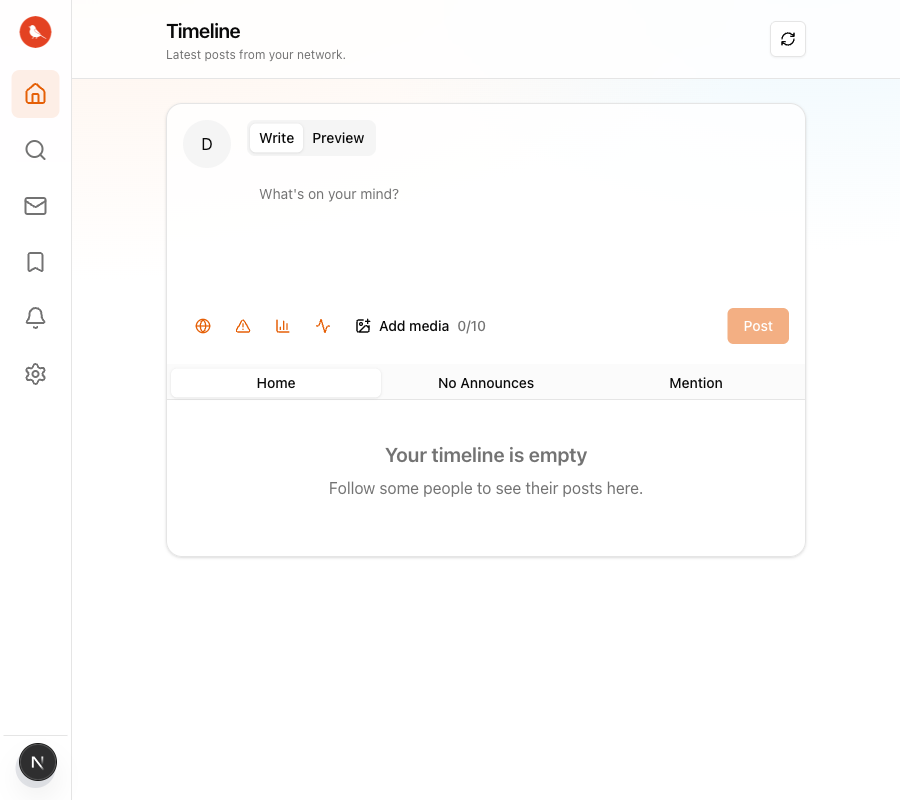
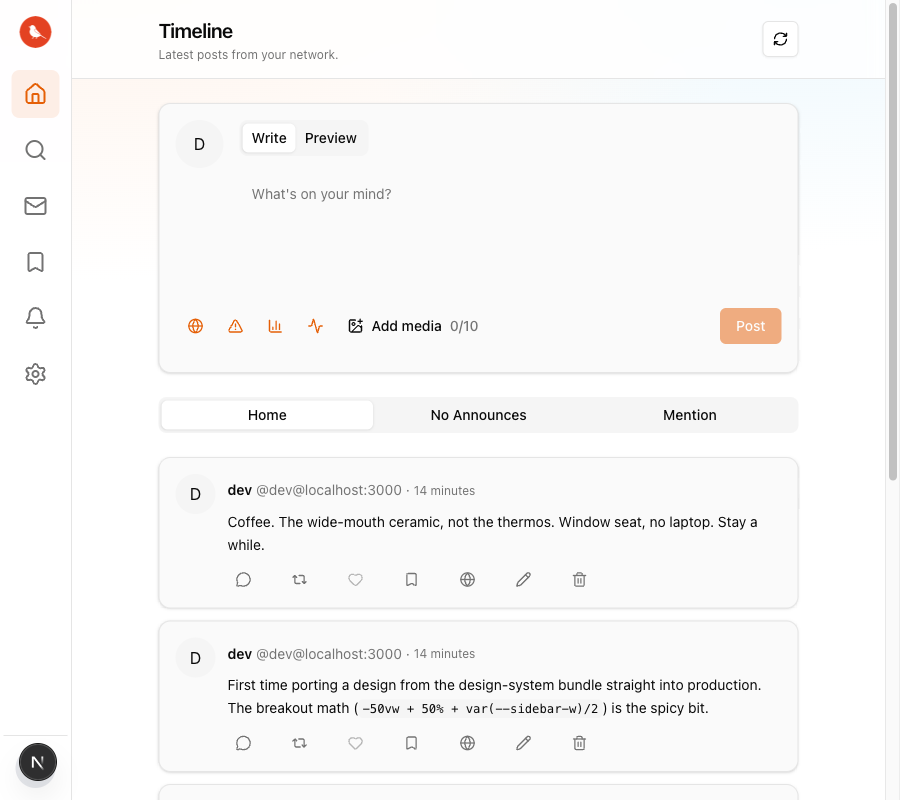
feat: per-post cards and standalone composer/tabs to match design
The design-system bundle wants each post to render as its own card
(`bg-card border rounded-xl p-4 shadow-sm`) with the composer and
tabs as standalone elements above. Today MainPageTimeline wraps the
composer, tabs, and posts in a single big section card with internal
dividers, which doesn't match.

- Posts: per-post `<article>` becomes a card; outer section uses
  `flex-col gap-3` instead of a borderless grid. This is shared with
  every Posts call site (bookmarks, profile, search, hashtag, etc.)
  so all timeline-like views get the same chrome.
- MainPageTimeline: drop the wrapping section. Composer is now its
  own card, tabs render as a flat strip, empty/loading states get
  their own card frame to match.

diff --git a/app/(timeline)/MainPageTimeline.tsx b/app/(timeline)/MainPageTimeline.tsx
@@ -241,92 +241,83 @@ export const MainPageTimeline: FC<MainPageTimelineProps> = ({
         }
       />
 
-      <section className="overflow-hidden rounded-2xl border bg-background/80 shadow-sm">
-        <div className="p-4 pb-2">
-          <PostBox
-            host={host}
-            profile={profile}
-            replyStatus={statusActionState.replyStatus}
-            editStatus={statusActionState.editStatus}
-            isMediaUploadEnabled={isMediaUploadEnabled}
-            onDiscardReply={() => dispatchStatusAction(clearAction())}
-            onDiscardEdit={() => dispatchStatusAction(clearAction())}
-            onPostCreated={(status: Status) => {
-              setCurrentStatuses((previousValue) => [status, ...previousValue])
-              dispatchStatusAction(clearAction())
-            }}
-            onPostUpdated={(updatedStatus: Status) => {
-              setCurrentStatuses((previousStatuses) =>
-                previousStatuses.map((status) =>
-                  status.id === updatedStatus.id ? updatedStatus : status
-                )
+      <section className="rounded-xl border bg-card p-4 shadow-sm">
+        <PostBox
+          host={host}
+          profile={profile}
+          replyStatus={statusActionState.replyStatus}
+          editStatus={statusActionState.editStatus}
+          isMediaUploadEnabled={isMediaUploadEnabled}
+          onDiscardReply={() => dispatchStatusAction(clearAction())}
+          onDiscardEdit={() => dispatchStatusAction(clearAction())}
+          onPostCreated={(status: Status) => {
+            setCurrentStatuses((previousValue) => [status, ...previousValue])
+            dispatchStatusAction(clearAction())
+          }}
+          onPostUpdated={(updatedStatus: Status) => {
+            setCurrentStatuses((previousStatuses) =>
+              previousStatuses.map((status) =>
+                status.id === updatedStatus.id ? updatedStatus : status
               )
-              dispatchStatusAction(clearAction())
-            }}
-          />
-        </div>
-
-        <Tabs
-          value={currentTab.timeline}
-          onValueChange={onTabChange}
-          className="w-full"
-        >
-          <TabsList className="w-full grid grid-cols-3 rounded-none border-b bg-muted/40 p-1">
-            {TIMELINES_TABS.map((tab) => (
-              <TabsTrigger
-                key={tab.timeline}
-                value={tab.timeline}
-                className="rounded-md data-[state=active]:bg-background"
-              >
-                {tab.name}
-              </TabsTrigger>
-            ))}
-          </TabsList>
-
-          <TabsContent value={currentTab.timeline} className="mt-0">
-            {currentStatuses.length > 0 ? (
-              <Posts
-                host={host}
-                className="mt-0"
-                currentTime={Date.now()}
-                statuses={currentStatuses}
-                currentActor={profile}
-                showActions
-                isMediaUploadEnabled={isMediaUploadEnabled}
-                postLineLimit={postLineLimit}
-                onReplyCreated={onReplyCreated}
-                onEdit={onEdit}
-                onPostDeleted={onPostDeleted}
-              />
-            ) : isLoadingMoreStatuses || isRefreshing ? (
-              <div className="p-8 text-center text-muted-foreground">
-                <p className="text-sm font-medium">Loading timeline...</p>
-              </div>
-            ) : (
-              <div className="p-8 text-center text-muted-foreground">
-                <h2 className="text-xl font-semibold mb-2">
-                  Your timeline is empty
-                </h2>
-                <p className="mb-6">
-                  Follow some people to see their posts here.
-                </p>
-              </div>
-            )}
-          </TabsContent>
-        </Tabs>
-
-        {hasMoreStatuses && (
-          <div ref={loadMoreRef} className="p-4 text-center border-t">
-            <Button
-              variant="outline"
-              disabled={isLoadingMoreStatuses}
-              onClick={loadMoreStatuses}
-            >
-              {isLoadingMoreStatuses ? 'Loading...' : 'Load more'}
-            </Button>
-          </div>
-        )}
+            )
+            dispatchStatusAction(clearAction())
+          }}
+        />
       </section>
+
+      <Tabs
+        value={currentTab.timeline}
+        onValueChange={onTabChange}
+        className="w-full"
+      >
+        <TabsList className="grid w-full grid-cols-3">
+          {TIMELINES_TABS.map((tab) => (
+            <TabsTrigger key={tab.timeline} value={tab.timeline}>
+              {tab.name}
+            </TabsTrigger>
+          ))}
+        </TabsList>
+
+        <TabsContent value={currentTab.timeline} className="mt-4">
+          {currentStatuses.length > 0 ? (
+            <Posts
+              host={host}
+              currentTime={Date.now()}
+              statuses={currentStatuses}
+              currentActor={profile}
+              showActions
+              isMediaUploadEnabled={isMediaUploadEnabled}
+              postLineLimit={postLineLimit}
+              onReplyCreated={onReplyCreated}
+              onEdit={onEdit}
+              onPostDeleted={onPostDeleted}
+            />
+          ) : isLoadingMoreStatuses || isRefreshing ? (
+            <div className="rounded-xl border bg-card p-8 text-center text-muted-foreground shadow-sm">
+              <p className="text-sm font-medium">Loading timeline...</p>
+            </div>
+          ) : (
+            <div className="rounded-xl border bg-card p-8 text-center text-muted-foreground shadow-sm">
+              <h2 className="mb-2 text-xl font-semibold">
+                Your timeline is empty
+              </h2>
+              <p>Follow some people to see their posts here.</p>
+            </div>
+          )}
+        </TabsContent>
+      </Tabs>
+
+      {hasMoreStatuses && (
+        <div ref={loadMoreRef} className="text-center">
+          <Button
+            variant="outline"
+            disabled={isLoadingMoreStatuses}
+            onClick={loadMoreStatuses}
+          >
+            {isLoadingMoreStatuses ? 'Loading...' : 'Load more'}
+          </Button>
+        </div>
+      )}
     </div>
   )
 }

diff --git a/lib/components/posts/posts.tsx b/lib/components/posts/posts.tsx
@@ -91,11 +91,11 @@ export const Posts: FC<Props> = ({
   }
 
   return (
-    <section className={cn('grid w-full min-w-0 grid-cols-1', className)}>
+    <section className={cn('flex w-full min-w-0 flex-col gap-3', className)}>
       {statuses.map((status) => (
         <article
           key={status.id}
-          className="min-w-0 border-b border-border/60 p-4 last:border-b-0"
+          className="min-w-0 rounded-xl border bg-card p-4 shadow-sm"
         >
           <Post
             host={host}